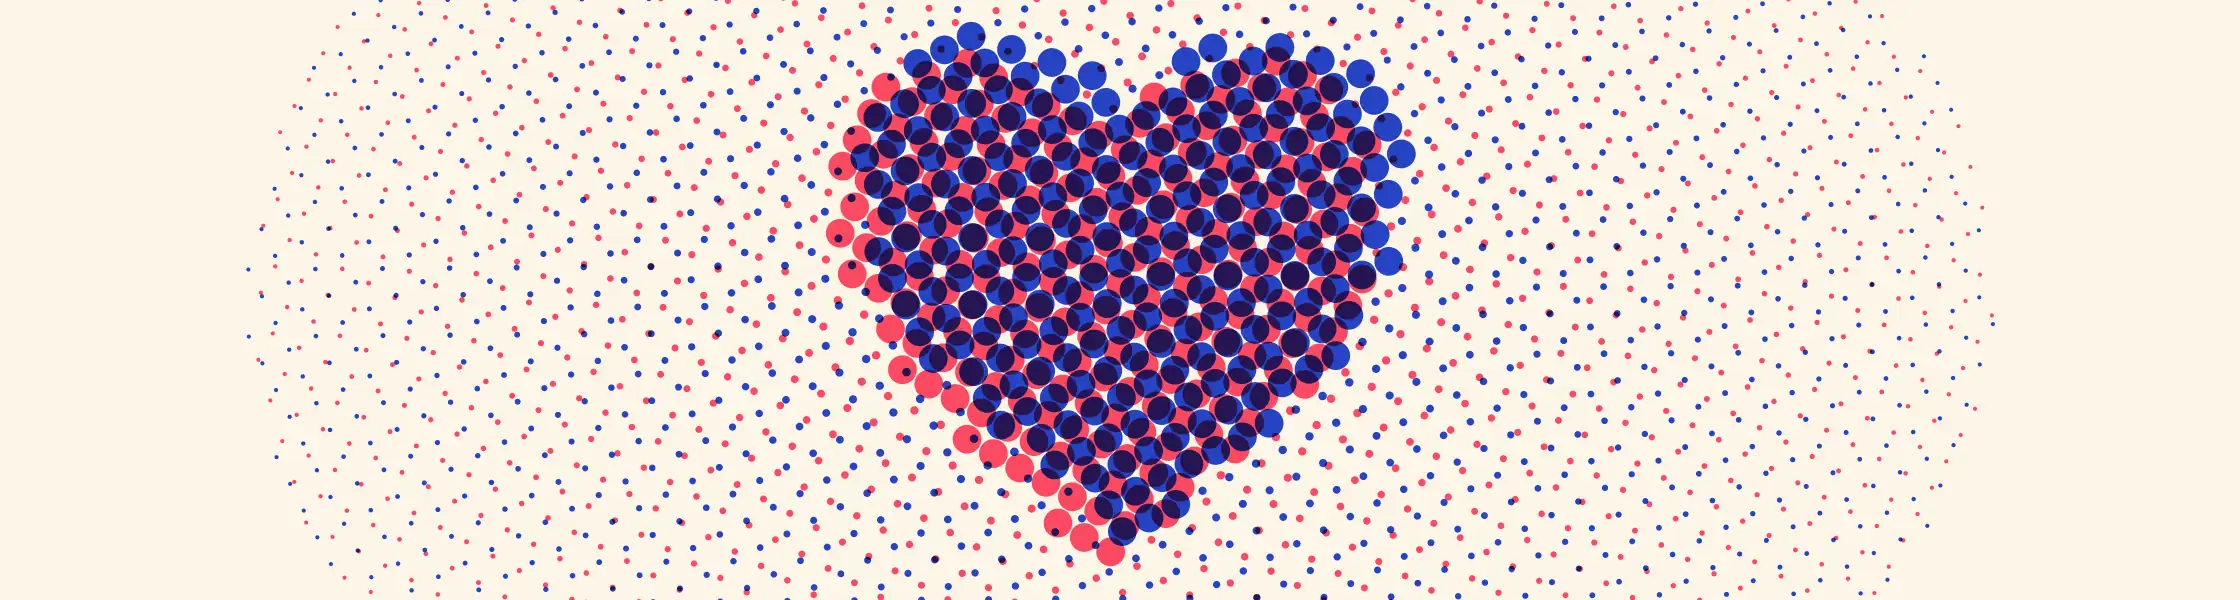
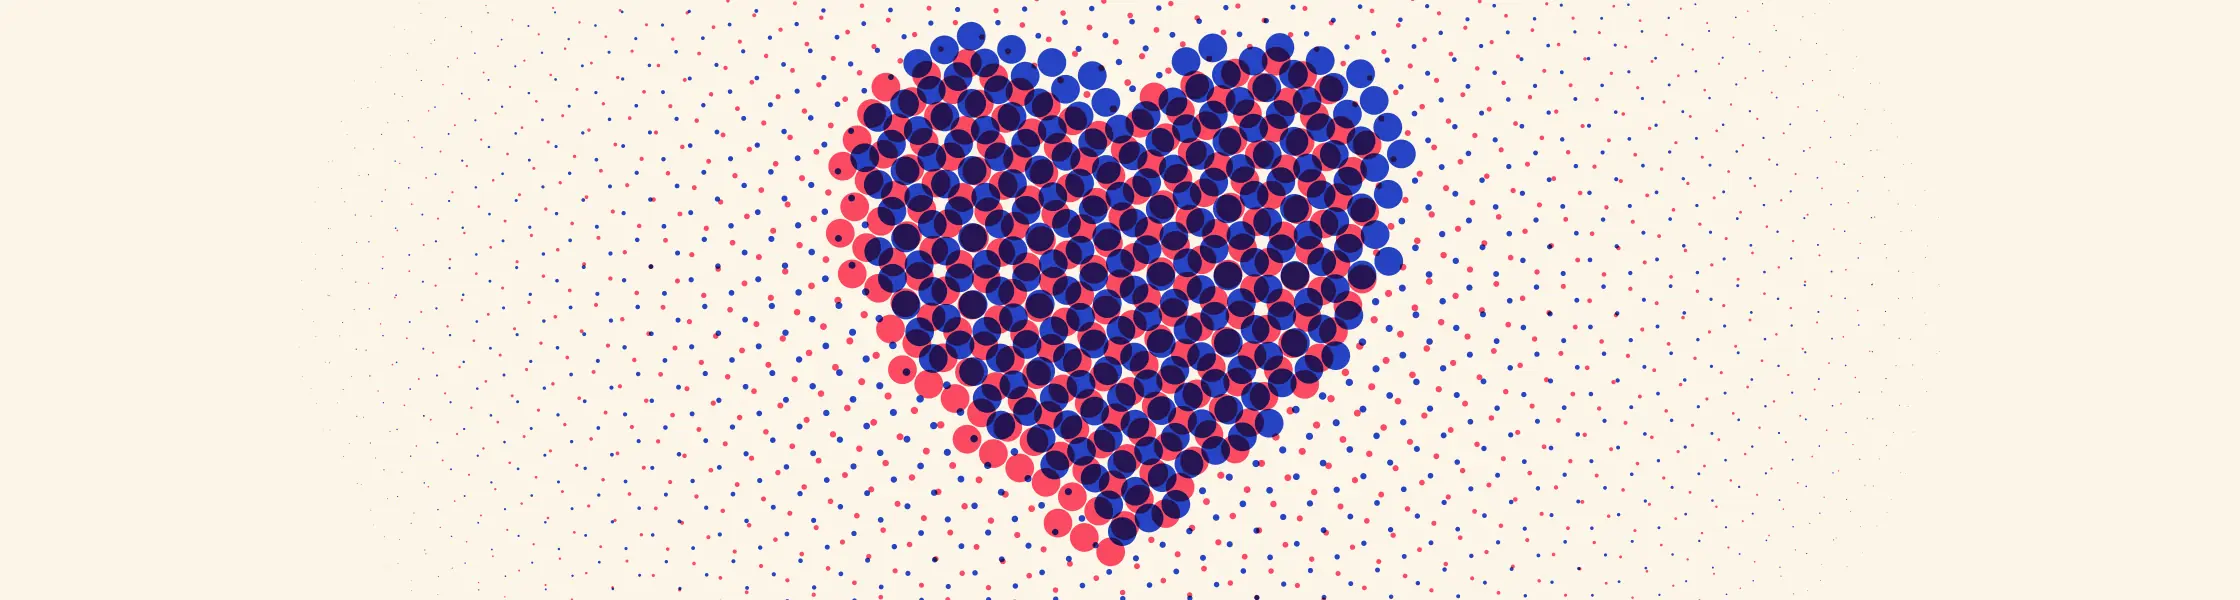
fix(covers): recentre the heart covers, and make outline strokes readable

diff --git a/apps/web/src/lib/cover-view.ts b/apps/web/src/lib/cover-view.ts
@@ -24,17 +24,27 @@ export interface HeartShape {
 export interface HeartLayout {
   /** Height of the original artboard (all are 1120 wide); the drawing is centred in the frame. */
   height: number;
+  /** Where the eye lands, in the artboard's coordinates; kept in the central 60% of the width so a phone's crop shows it. */
+  focus: { x: number; y: number };
   /** A repeating tile the shapes sit in, or none when they are drawn once. */
   tile?: { width: number; height: number };
 }
 
 export const HEART_LAYOUTS: Readonly<Record<string, HeartLayout>> = {
-  scattered: { height: 280, tile: { width: 280, height: 210 } },
-  large: { height: 280 },
-  dark: { height: 280 },
-  outline: { height: 293, tile: { width: 280, height: 210 } },
-  ripple: { height: 293 },
-  rising: { height: 293 },
+  scattered: {
+    height: 280,
+    focus: { x: 560, y: 140 },
+    tile: { width: 280, height: 210 },
+  },
+  large: { height: 280, focus: { x: 560, y: 140 } },
+  dark: { height: 280, focus: { x: 560, y: 140 } },
+  outline: {
+    height: 293,
+    focus: { x: 560, y: 146 },
+    tile: { width: 280, height: 210 },
+  },
+  ripple: { height: 293, focus: { x: 560, y: 146 } },
+  rising: { height: 293, focus: { x: 590, y: 135 } },
 };
 
 export const HEART_DESIGNS: readonly string[] = Object.keys(HEART_LAYOUTS);
@@ -43,23 +53,25 @@ const SCATTER = [
   'translate(-670 10) rotate(-14 733 45)',
   'translate(-540 90) rotate(18 733 45)',
 ];
-const RIPPLES: [number, number][] = [
-  [2, 1],
-  [4, 0.5],
-  [6, 0.33],
-  [8, 0.25],
-  [10, 0.2],
-];
+const RIPPLES = [2, 4, 6, 8, 10];
+// Hearts climbing from lower left to upper right, clear of the photo and the tipping panel.
 const RISING: [number, number, number][] = [
-  [520, 235, 0.6],
-  [640, 185, 0.95],
-  [790, 130, 1.45],
-  [980, 80, 2.2],
+  [340, 230, 0.6],
+  [450, 190, 0.95],
+  [590, 135, 1.45],
+  [760, 85, 2.2],
 ];
-const BIG = 'translate(-3650 -300) scale(6)';
+/** A heart drawn about its centre (x, y is the middle of its bounding box). */
+const placed = (x: number, y: number, scale: number) =>
+  `translate(${x} ${y}) scale(${scale}) translate(-727 -50)`;
+const BIG = placed(560, 140, 3.6);
 
 /** The shapes of a heart design, drawn in `tone` over the cover's base colour. */
-export function heartShapes(design: string, tone: string): HeartShape[] {
+export function heartShapes(
+  design: string,
+  tone: string,
+  line: string = tone,
+): HeartShape[] {
   switch (design) {
     case 'scattered':
       return SCATTER.map((transform) => ({ d: HEART, transform, fill: tone }));
@@ -67,23 +79,24 @@ export function heartShapes(design: string, tone: string): HeartShape[] {
       return SCATTER.map((transform) => ({
         d: HEART,
         transform,
-        stroke: tone,
+        stroke: line,
         strokeWidth: 2,
       }));
     case 'large':
     case 'dark':
       return [{ d: HEART, transform: BIG, fill: tone }];
     case 'ripple':
-      return RIPPLES.map(([scale, strokeWidth]) => ({
+      return RIPPLES.map((scale) => ({
         d: HEART,
-        transform: `translate(860 120) scale(${scale}) translate(-733 -45)`,
-        stroke: tone,
-        strokeWidth,
+        transform: placed(560, 146, scale),
+        stroke: line,
+        // Every ring is about 2 px wide on screen whatever its scale.
+        strokeWidth: +(2 / scale).toFixed(3),
       }));
     case 'rising':
       return RISING.map(([x, y, scale]) => ({
         d: HEART,
-        transform: `translate(${x} ${y}) scale(${scale}) translate(-733 -45)`,
+        transform: placed(x, y, scale),
         fill: tone,
       }));
     default:
@@ -98,6 +111,7 @@ export type CoverView =
       design: string;
       base: string;
       tone: string;
+      line: string;
       shapes: HeartShape[];
       layout: HeartLayout;
     };
@@ -120,15 +134,16 @@ function hearts(design: string, colourId: string | undefined): CoverView {
   const picked = colourId
     ? COVER_COLOURS.find((c) => c.id === colourId)
     : undefined;
-  const { base, tone } = !colours
-    ? COVER_DARK
-    : (picked ?? NEUTRAL ?? COVER_DARK);
+  // The dark design takes no colour of its own, so it has no outline colour either.
+  const dark = { ...COVER_DARK, line: COVER_DARK.tone };
+  const { base, tone, line } = !colours ? dark : (picked ?? NEUTRAL ?? dark);
   return {
     kind: 'hearts',
     design,
     base,
     tone,
-    shapes: heartShapes(design, tone),
+    line,
+    shapes: heartShapes(design, tone, line),
     layout,
   };
 }

diff --git a/packages/contracts/src/covers.ts b/packages/contracts/src/covers.ts
@@ -16,6 +16,8 @@ export interface CoverColour {
   name: string;
   base: string;
   tone: string;
+  /** For designs drawn in outline: readable on `base`, but quiet. */
+  line: string;
 }
 
 export const COVER_DESIGNS: readonly CoverDesign[] = [
@@ -47,13 +49,49 @@ export const COVER_DESIGNS: readonly CoverDesign[] = [
 
 /** Violet and lilac are chosen by the person, never automatic (spec §6). */
 export const COVER_COLOURS: readonly CoverColour[] = [
-  { id: 'neutral', name: 'Neutral', base: '#e6e4dc', tone: '#d6d3c8' },
-  { id: 'violet', name: 'Violet', base: '#7a32f9', tone: '#6723e8' },
-  { id: 'lilac', name: 'Lilac', base: '#ece2ff', tone: '#ddcbff' },
-  { id: 'forest', name: 'Forest', base: '#1f4d3a', tone: '#2a6049' },
-  { id: 'ocean', name: 'Ocean', base: '#1d4e89', tone: '#2a609f' },
-  { id: 'sun', name: 'Sun', base: '#f4c25b', tone: '#ebb03b' },
-  { id: 'rose', name: 'Rose', base: '#b83d62', tone: '#c9547a' },
+  {
+    id: 'neutral',
+    name: 'Neutral',
+    base: '#e6e4dc',
+    tone: '#d6d3c8',
+    line: '#bdb9ab',
+  },
+  {
+    id: 'violet',
+    name: 'Violet',
+    base: '#7a32f9',
+    tone: '#6723e8',
+    line: '#b08dff',
+  },
+  {
+    id: 'lilac',
+    name: 'Lilac',
+    base: '#ece2ff',
+    tone: '#ddcbff',
+    line: '#bfa5f5',
+  },
+  {
+    id: 'forest',
+    name: 'Forest',
+    base: '#1f4d3a',
+    tone: '#2a6049',
+    line: '#4f8a70',
+  },
+  {
+    id: 'ocean',
+    name: 'Ocean',
+    base: '#1d4e89',
+    tone: '#2a609f',
+    line: '#5b8fcc',
+  },
+  { id: 'sun', name: 'Sun', base: '#f4c25b', tone: '#ebb03b', line: '#c98f1a' },
+  {
+    id: 'rose',
+    name: 'Rose',
+    base: '#b83d62',
+    tone: '#c9547a',
+    line: '#e07a9b',
+  },
 ];
 
 /** The `dark` design's fixed colours: it takes no colour of its own. */
